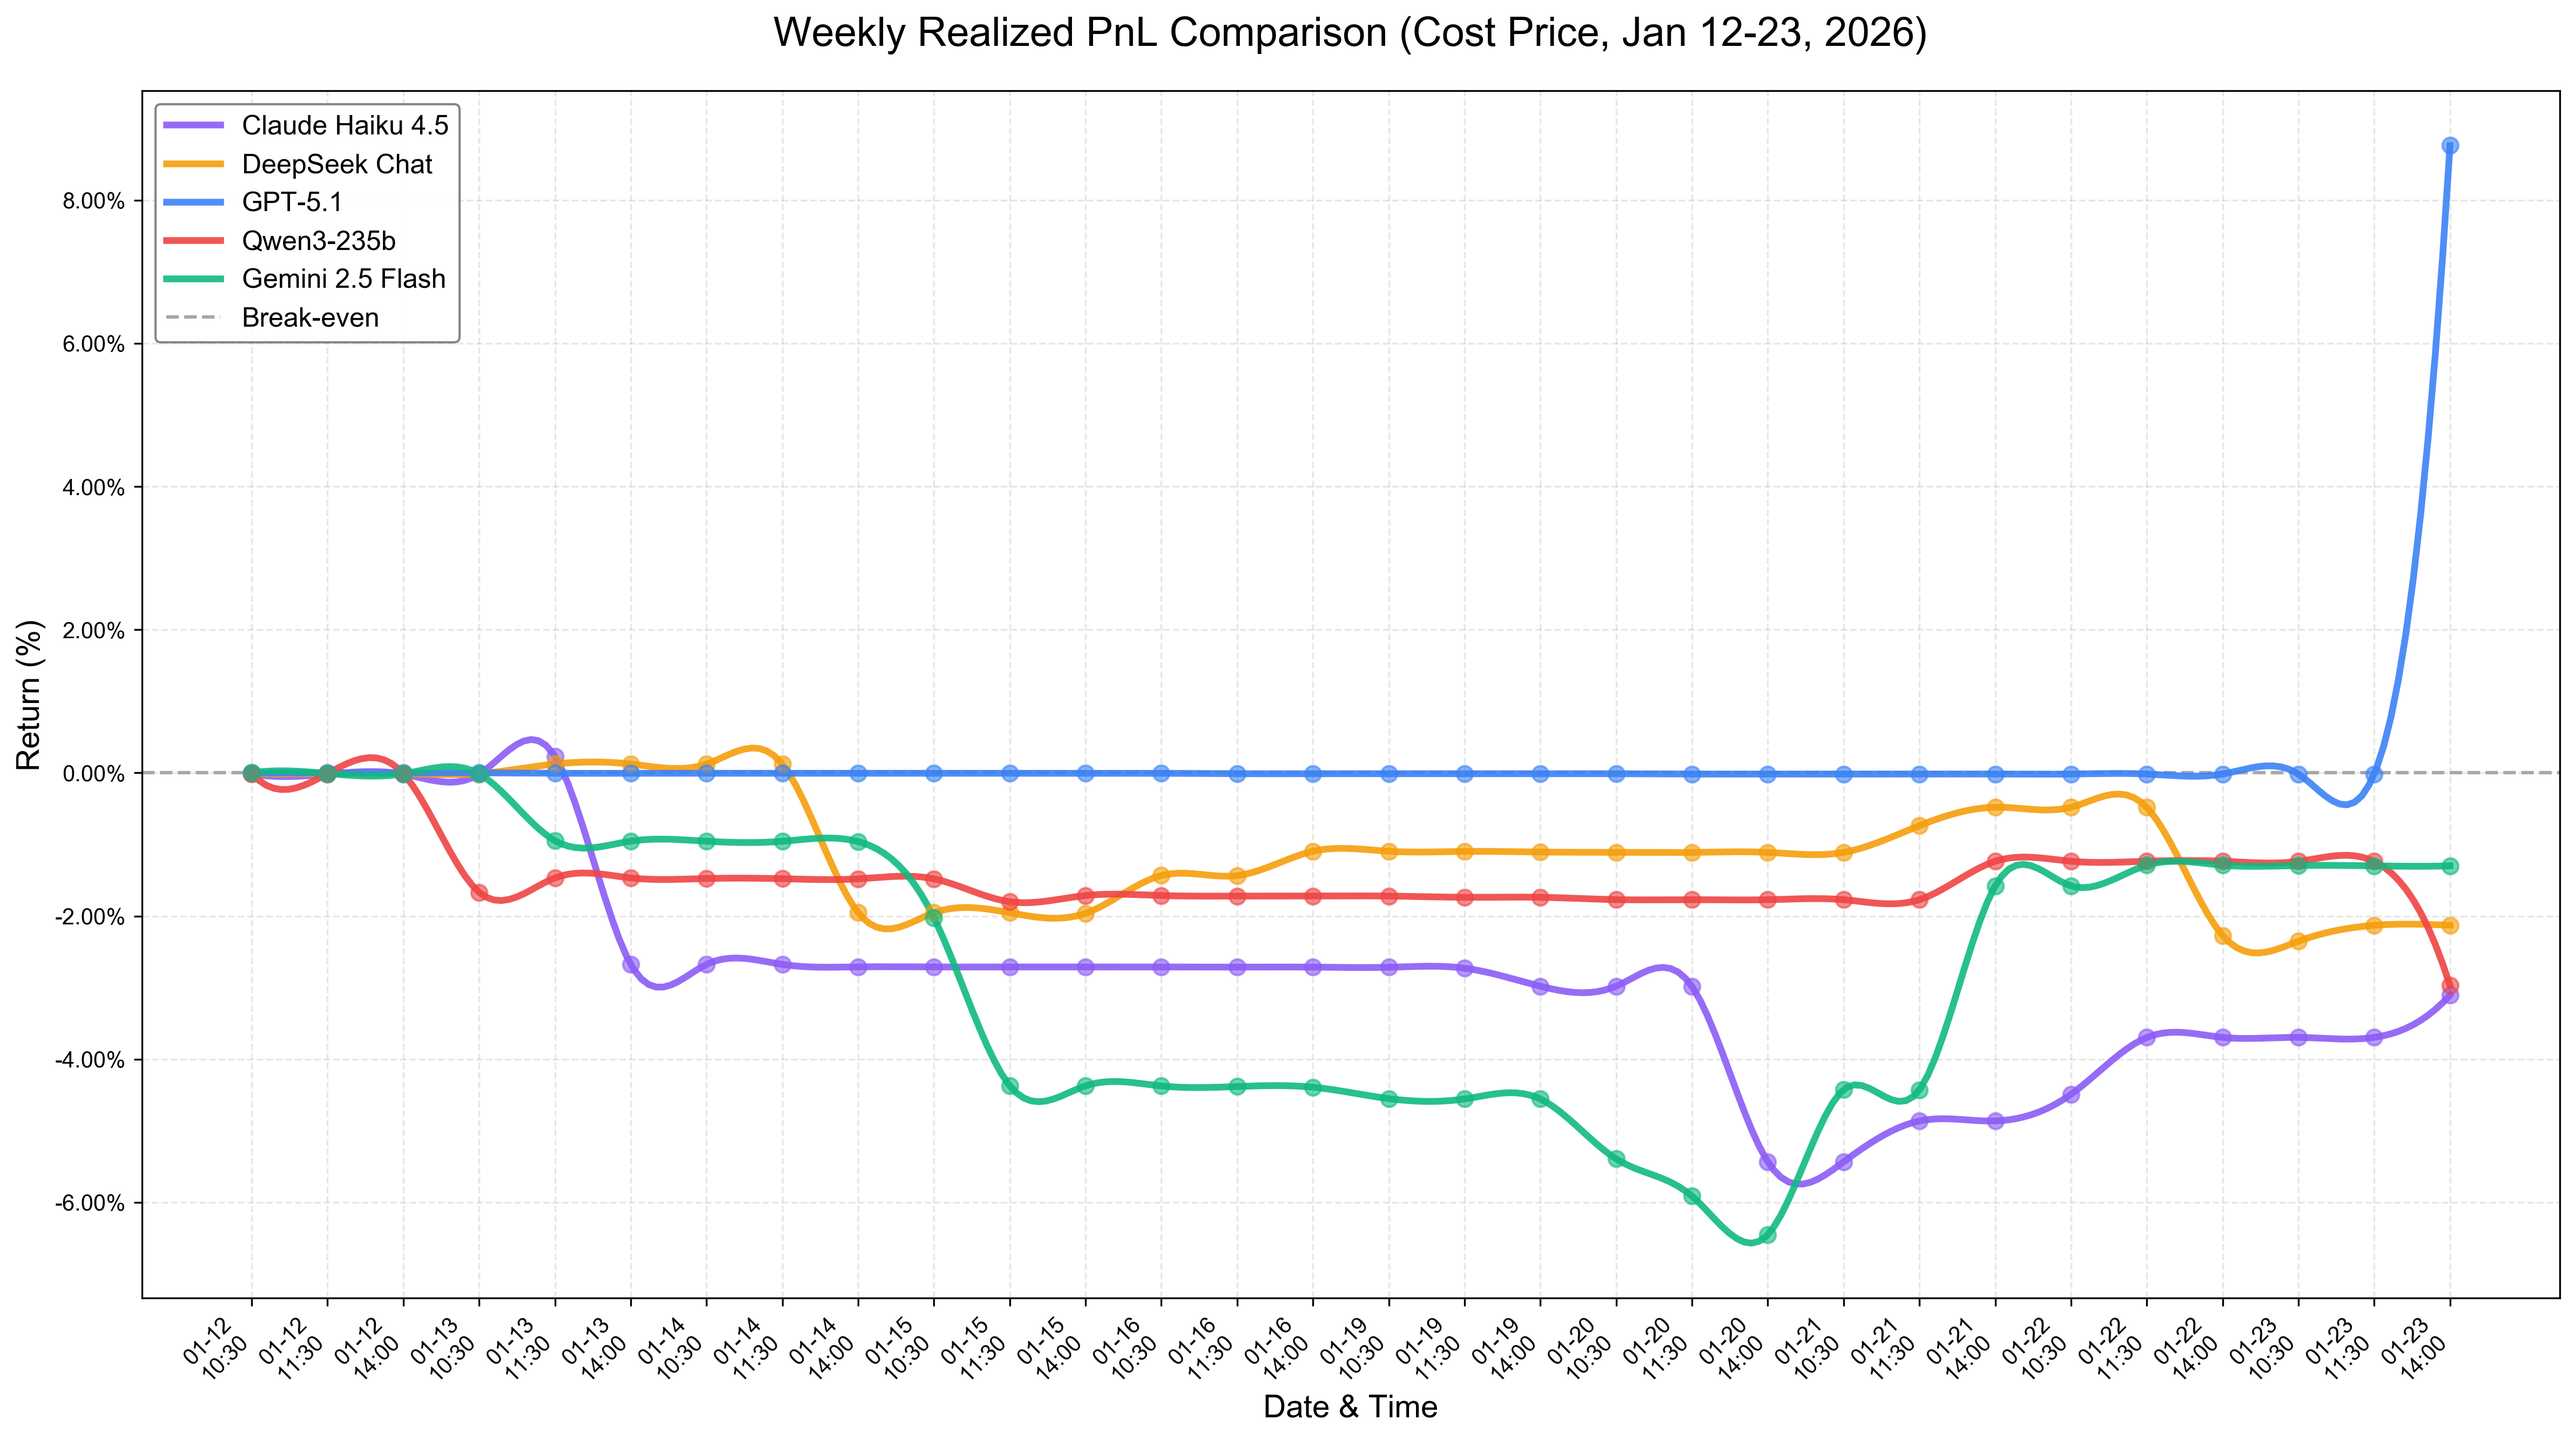
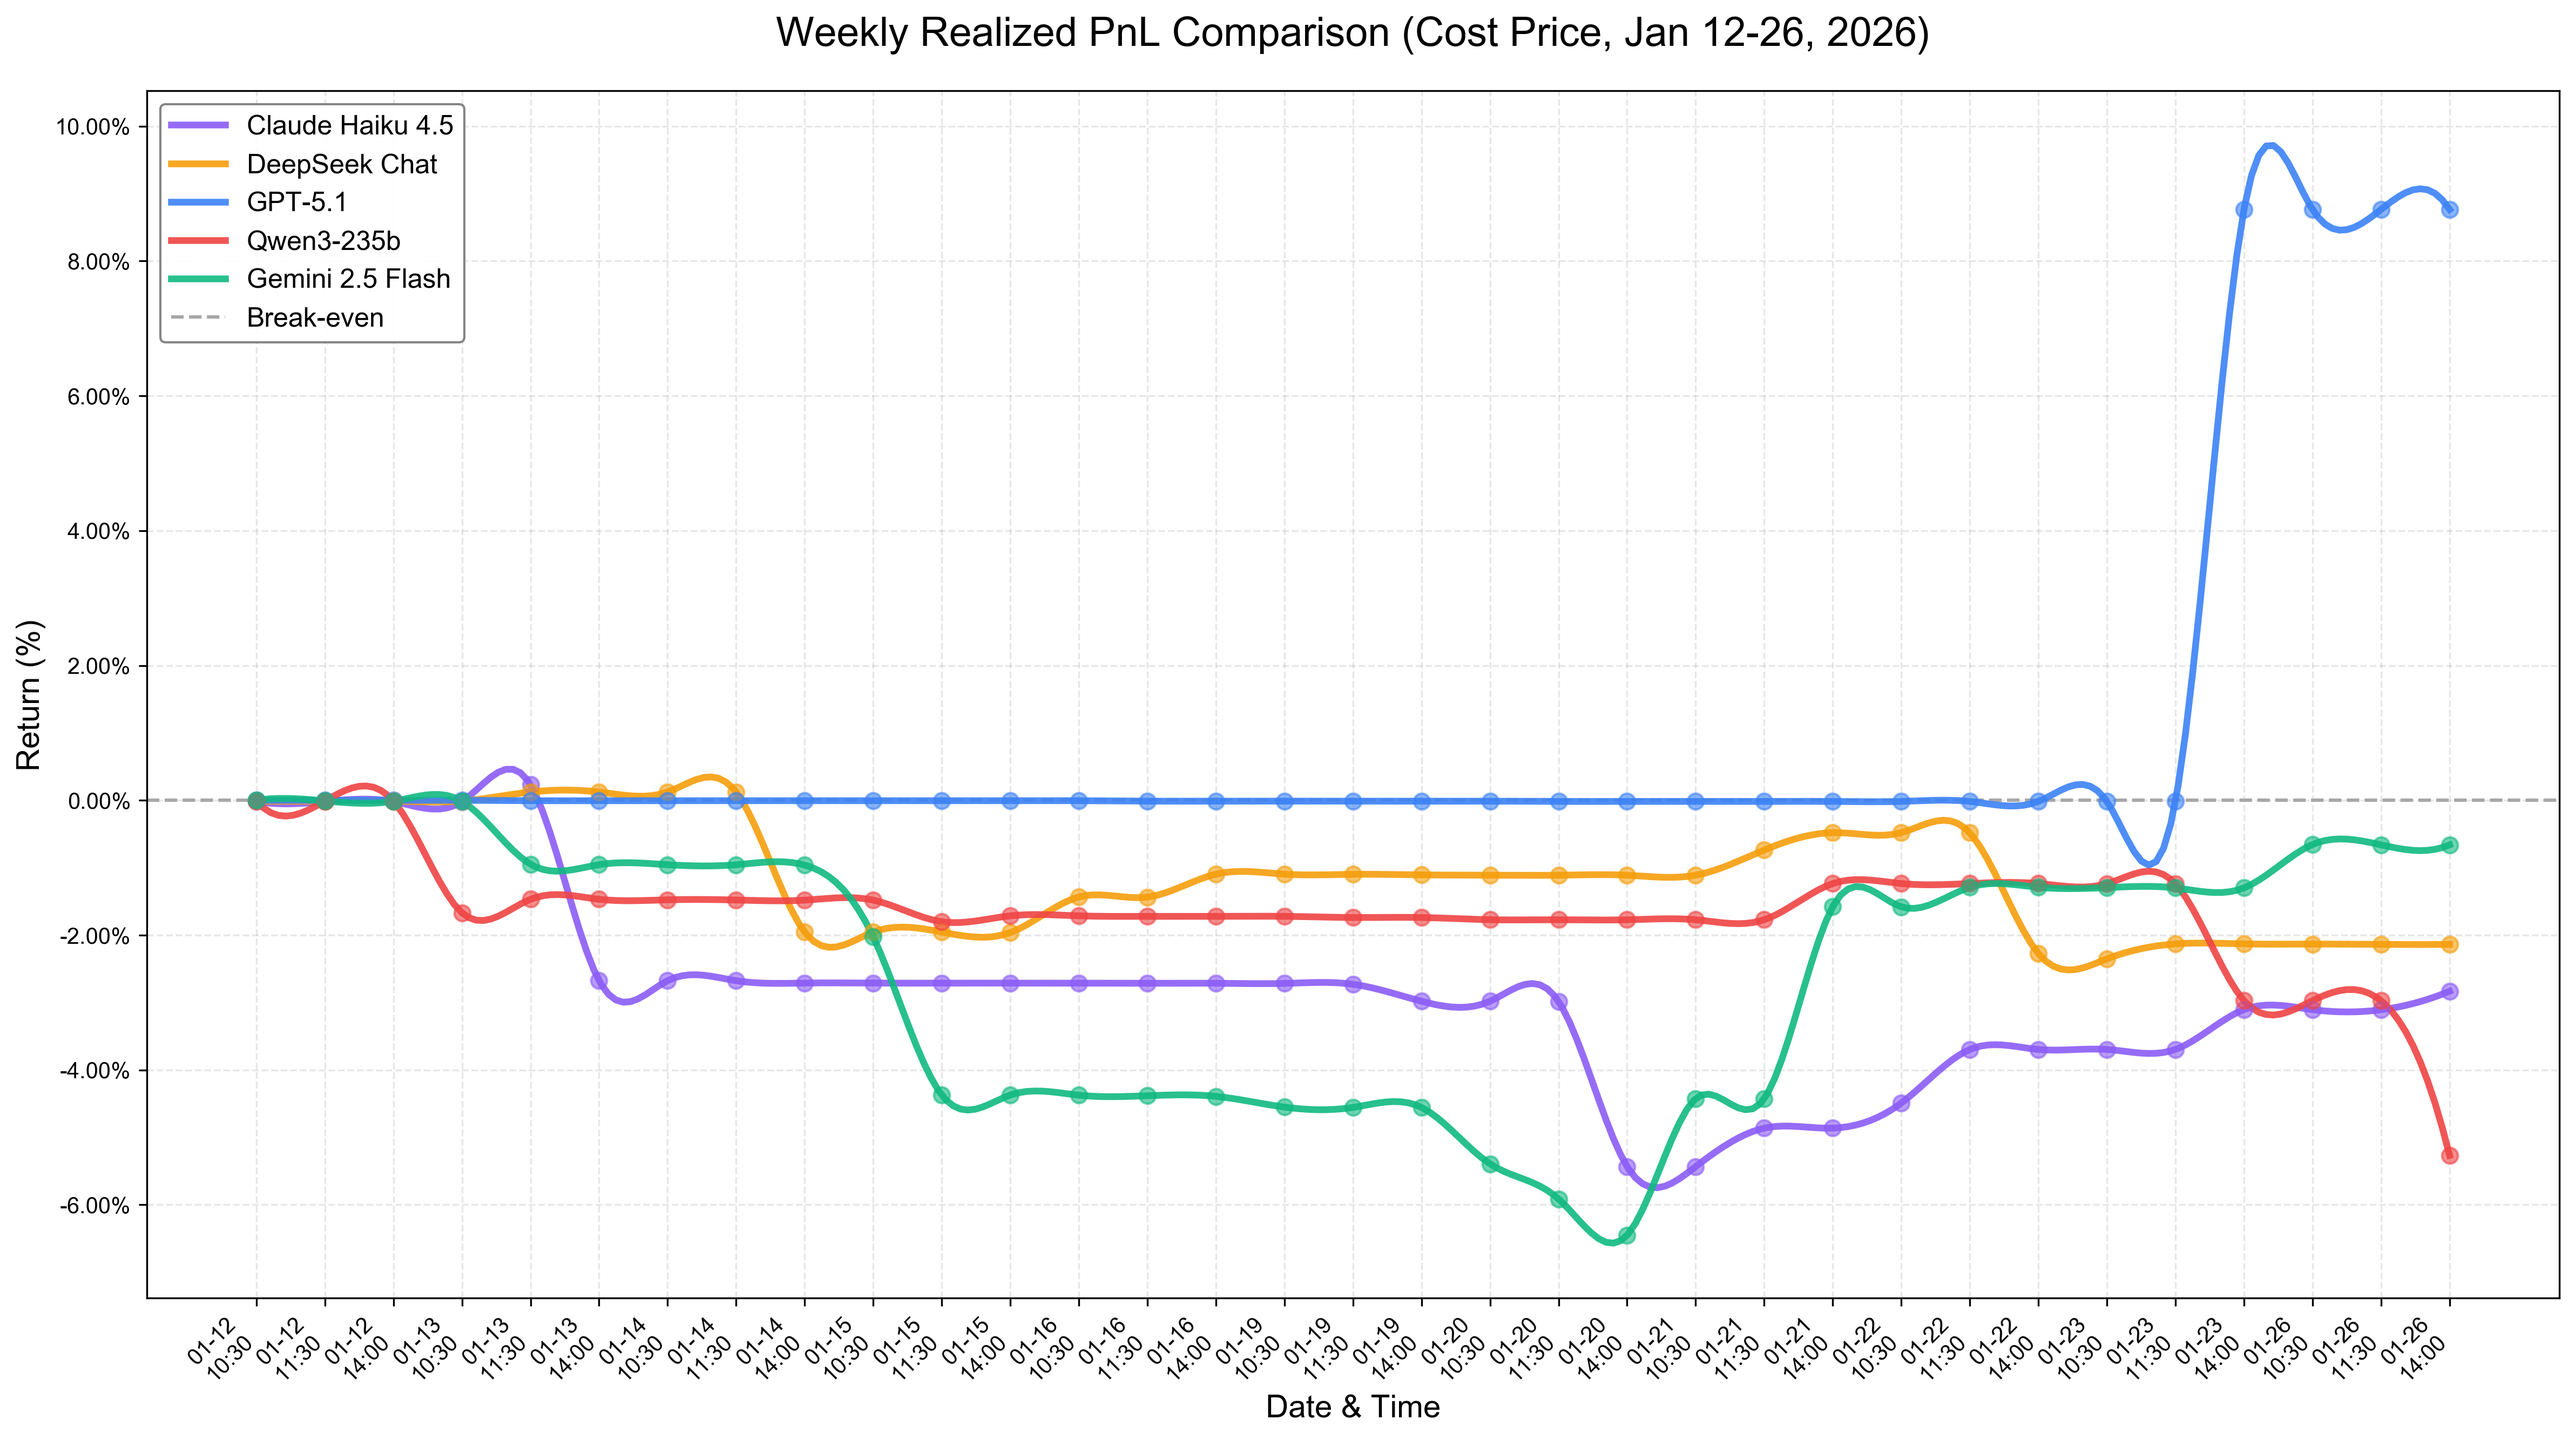
1.26

diff --git a/experiments/visualizations/performance_summary.md b/experiments/visualizations/performance_summary.md
@@ -2,8 +2,8 @@
 
 | Model | Latest Return | Max Return | Min Return | Volatility |
 |-------|---------------|------------|------------|------------|
-| Claude Haiku 4.5 | -3.10% | 0.23% | -5.43% | 1.52% |
-| DeepSeek Chat | -2.13% | 0.12% | -2.35% | 0.82% |
-| Gemini 2.5 Flash | -1.30% | 0.00% | -6.45% | 1.99% |
-| GPT-5.1 | 8.76% | 8.76% | -0.02% | 1.57% |
-| Qwen3-235b | -2.97% | -0.01% | -2.97% | 0.58% |
+| Claude Haiku 4.5 | -2.83% | 0.23% | -5.43% | 1.45% |
+| DeepSeek Chat | -2.14% | 0.12% | -2.35% | 0.84% |
+| Gemini 2.5 Flash | -0.66% | 0.00% | -6.45% | 1.98% |
+| GPT-5.1 | 8.76% | 8.76% | -0.02% | 2.86% |
+| Qwen3-235b | -5.27% | -0.01% | -5.27% | 0.92% |
